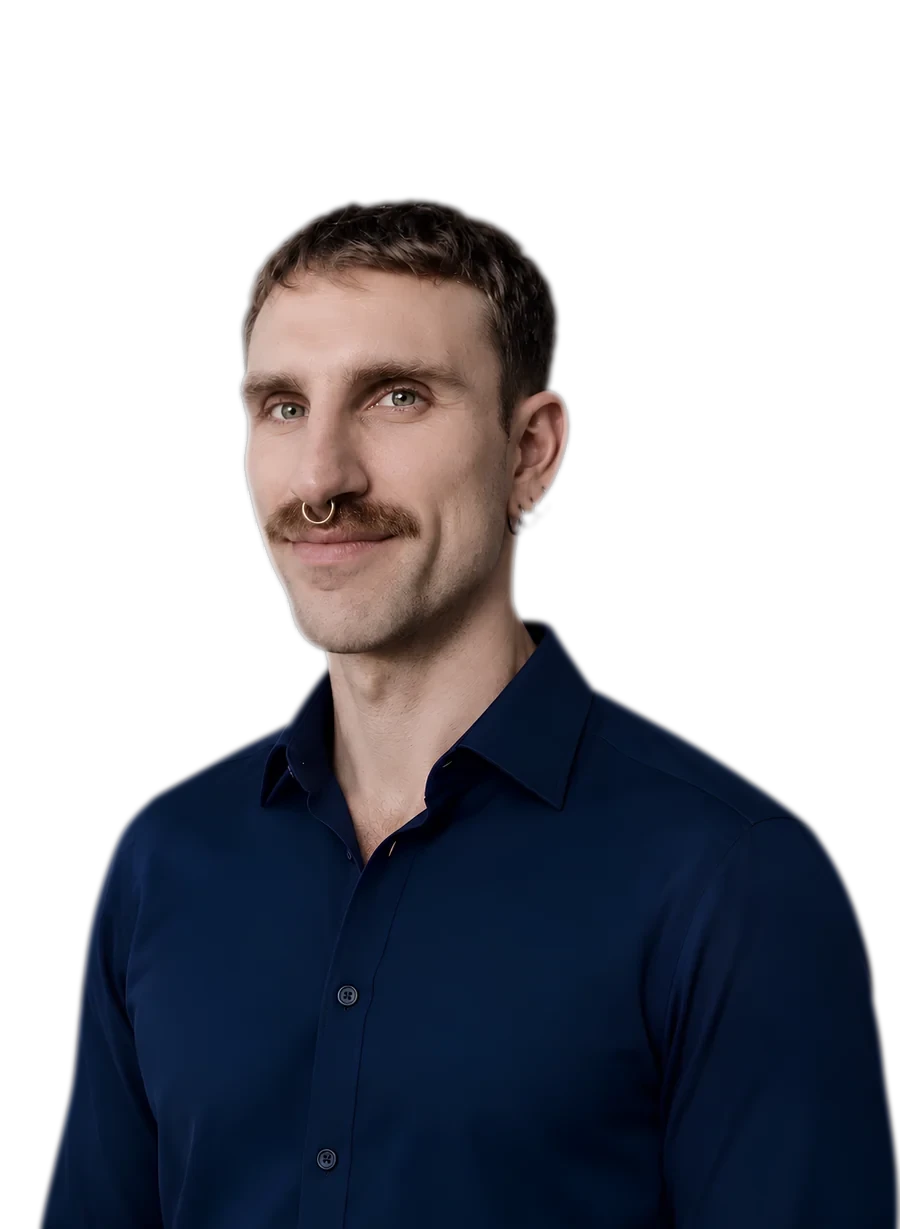
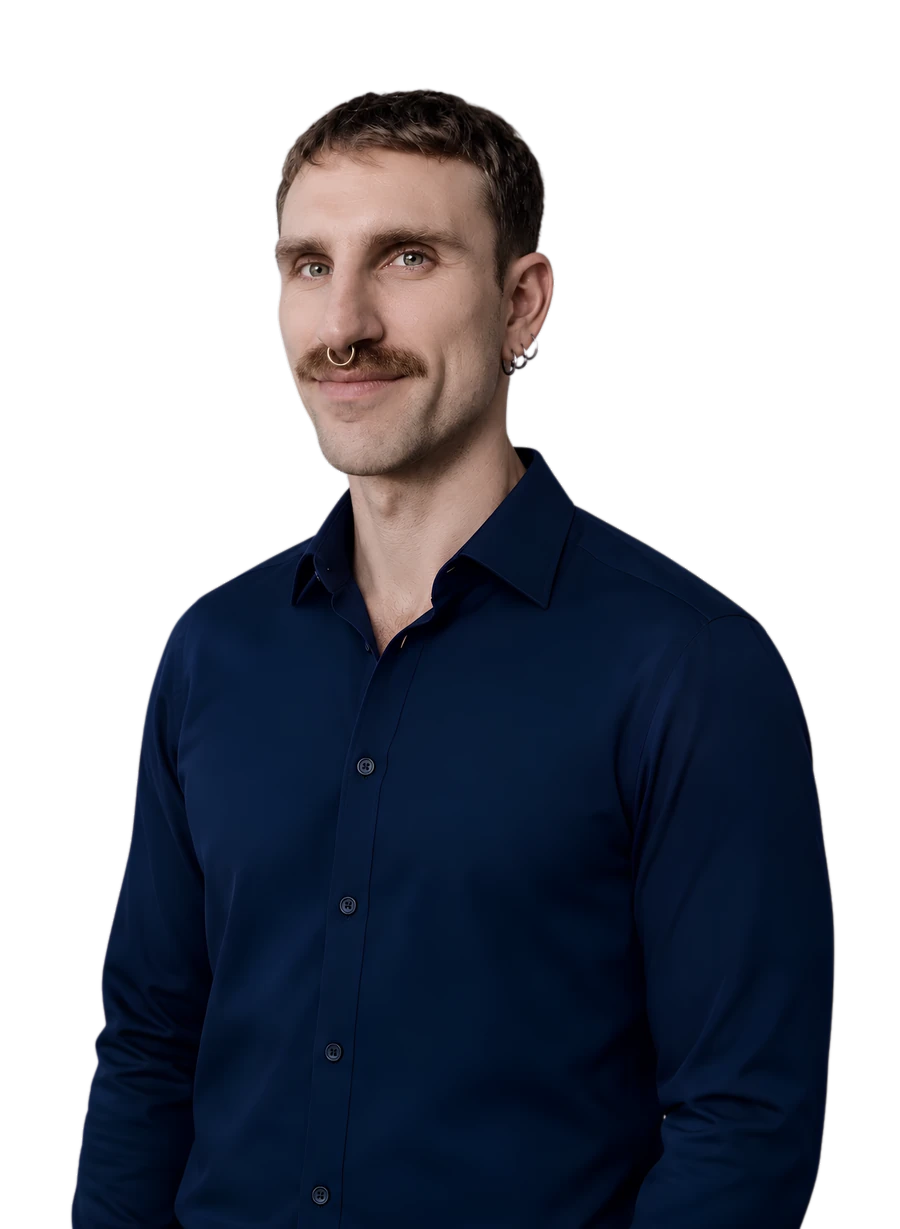
Startseite: Beratungstext über den Knöpfen, Philosophie unten, Porträt mit mehr Oberkörper und dezenten Kanten
Claude-Session: https://claude.ai/code/session_01LiDdJKJTbftxrGLFFFpm9R

diff --git a/style.css b/style.css
@@ -4169,5 +4169,19 @@ html:not(.never) .kon-page-btns .btn.btn-wa-ico{width:2.5rem!important;height:2.
 @media (min-width:701px){body:not(.intro-collapsed):not(.head-done) .home-page .hero-intro,body.home-page:not(.intro-collapsed):not(.head-done) .hero-intro{padding-top:calc(1.1 * var(--u))!important}}
 @media (max-width:700px){body:not(.intro-collapsed):not(.head-done) .home-page .hero-intro,body.home-page:not(.intro-collapsed):not(.head-done) .hero-intro{padding-top:12px!important}}
 /* v161: Porträt etwas kleiner */
-@media (min-width:701px){html:not(.never) .home-page .hero-v5 .hero-portrait{width:calc(47 * var(--u))!important;left:calc(45.6 * var(--u))!important;top:calc(-6.2 * var(--u))!important}}
+@media (min-width:701px){html:not(.never) .home-page .hero-v5 .hero-portrait{width:calc(47 * var(--u))!important;left:calc(45.6 * var(--u))!important;top:calc(.4 * var(--u))!important}}
 @media (max-width:700px){html:not(.never) .home-page .hero-v5 .hero-portrait{width:88vw!important}}
+/* v161: Beratungs-Text zwischen Untertitel und Knöpfen, Philosophie ganz unten */
+@media (min-width:701px){
+ html:not(.never) .home-page .hero-v5 .hero-text,html:not(.never) .home-page .hero-v5 .hero-copy>.hero-text.hero-text{top:calc(15.4 * var(--u))!important;left:calc(33.94 * var(--u))!important;transform:translateX(-50%)!important;width:calc(37 * var(--u))!important;text-align:center!important;margin:0!important;font-size:max(13px,calc(1.4 * var(--u)))!important}
+}
+@media (max-width:700px){html:not(.never) .hero-v5 .hero-text{text-align:center!important;margin:.2rem 0 1rem!important}}
+@media (min-width:701px){
+ html:not(.never) .home-page .hero-v5 .hero-actions{top:calc(23.4 * var(--u))!important}
+ html:not(.never) .home-page .hero-v5 .hero-div,html:not(.never) .home-page .hero-v5 .hero-copy>.hero-div.hero-div{top:calc(28.9 * var(--u))!important}
+ html:not(.never) .home-page .hero-v5 .hero-phil-h{top:calc(34.1 * var(--u))!important}
+ html:not(.never) .home-page .hero-v5 .hero-vals{top:calc(38.5 * var(--u))!important}
+}
+/* v161: Porträt mit mehr Oberkörper – weicher, ovaler Auslauf ohne gerade Kanten */
+@media (min-width:701px){html:not(.never) .home-page .hero-v5 .hero-portrait{-webkit-mask-image:radial-gradient(ellipse 60% 46% at 52% 34%,#000 58%,rgba(0,0,0,.55) 76%,rgba(0,0,0,.18) 90%,transparent 100%)!important;mask-image:radial-gradient(ellipse 60% 46% at 52% 34%,#000 58%,rgba(0,0,0,.55) 76%,rgba(0,0,0,.18) 90%,transparent 100%)!important;-webkit-mask-composite:source-over;mask-composite:add}
+html:not(.never) .home-page .hero-v5 .hero-portrait::after{display:none!important}}

diff --git a/inc/views.php b/inc/views.php
@@ -183,6 +183,7 @@ function ka_view_home() {
         <h2 class="hero-name"><?php echo ka( 'hero_name' ); ?></h2>
         <p class="hero-sub"><?php echo ka( 'hero_sub' ); ?></p>
       </div>
+      <p class="hero-text"><?php echo ka( 'hero_text' ); ?></p>
       <p class="hero-actions">
         <a class="btn hero-act hero-act-main" href="<?php echo esc_url( ka_url( 'leistungen' ) ); ?>"><?php echo ka_icon( 'syringe' ); ?><span><?php echo ka( 'lei_eyebrow' ); ?></span></a>
         <a class="btn hero-act hero-act-line" href="<?php echo esc_url( ka_url( 'kontakt' ) ); ?>"><?php echo ka_icon( 'mail', 'ico fillable' ); ?><span><?php echo ka( 'kon_eyebrow' ); ?></span></a>
@@ -196,7 +197,6 @@ function ka_view_home() {
           <li><?php echo ka_icon( $vi[ $i % 3 ] ); ?><span><?php echo esc_html( $hv ); ?></span></li>
           <?php endforeach; ?>
         </ul>
-        <p class="hero-text"><?php echo ka( 'hero_text' ); ?></p>
       </div>
     </div>
   </header>
